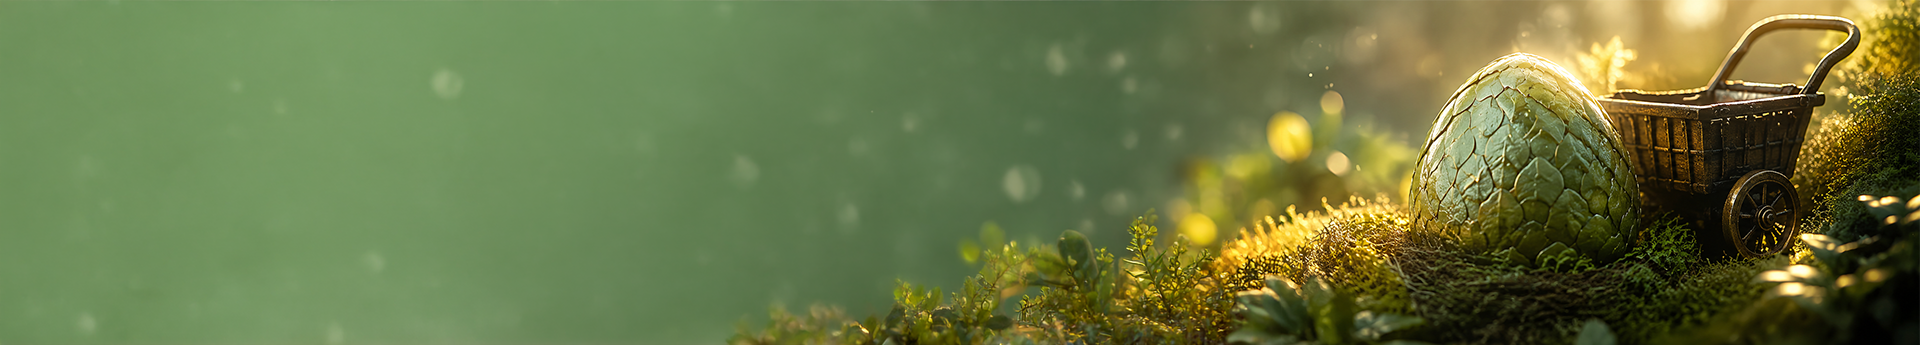
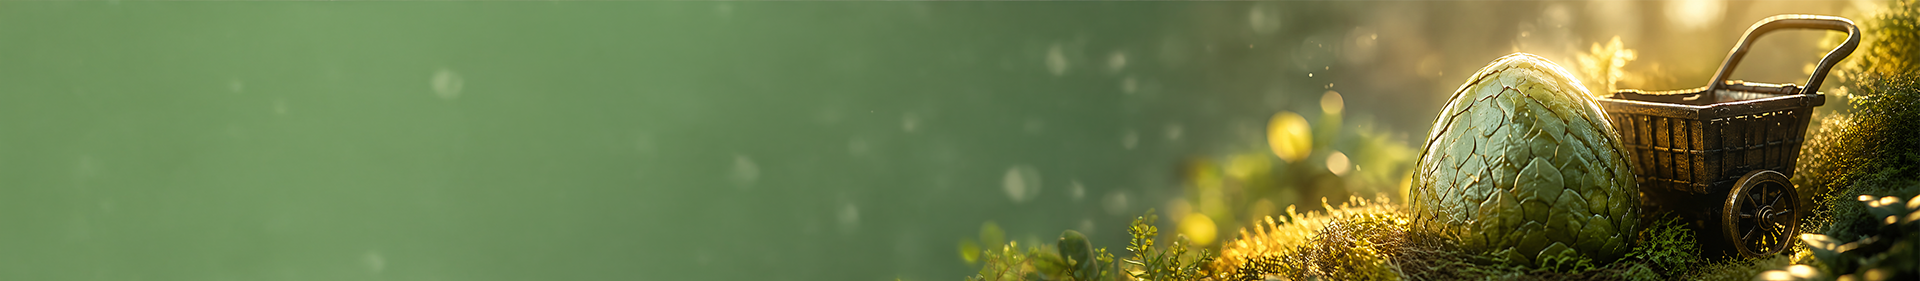
New/inproved modal header added

diff --git a/css/main.css b/css/main.css
@@ -1165,9 +1165,9 @@ body {
 
 #cradleModalHeader{
     height: 30vh;
-    background-image: url(../assets/img/cradleHeader.png);
+    background-image: url(../assets/img/cradleModalHeader.png);
     
-    background-position: center;
+    background-position: right;
     background-repeat: none;
 }
 
